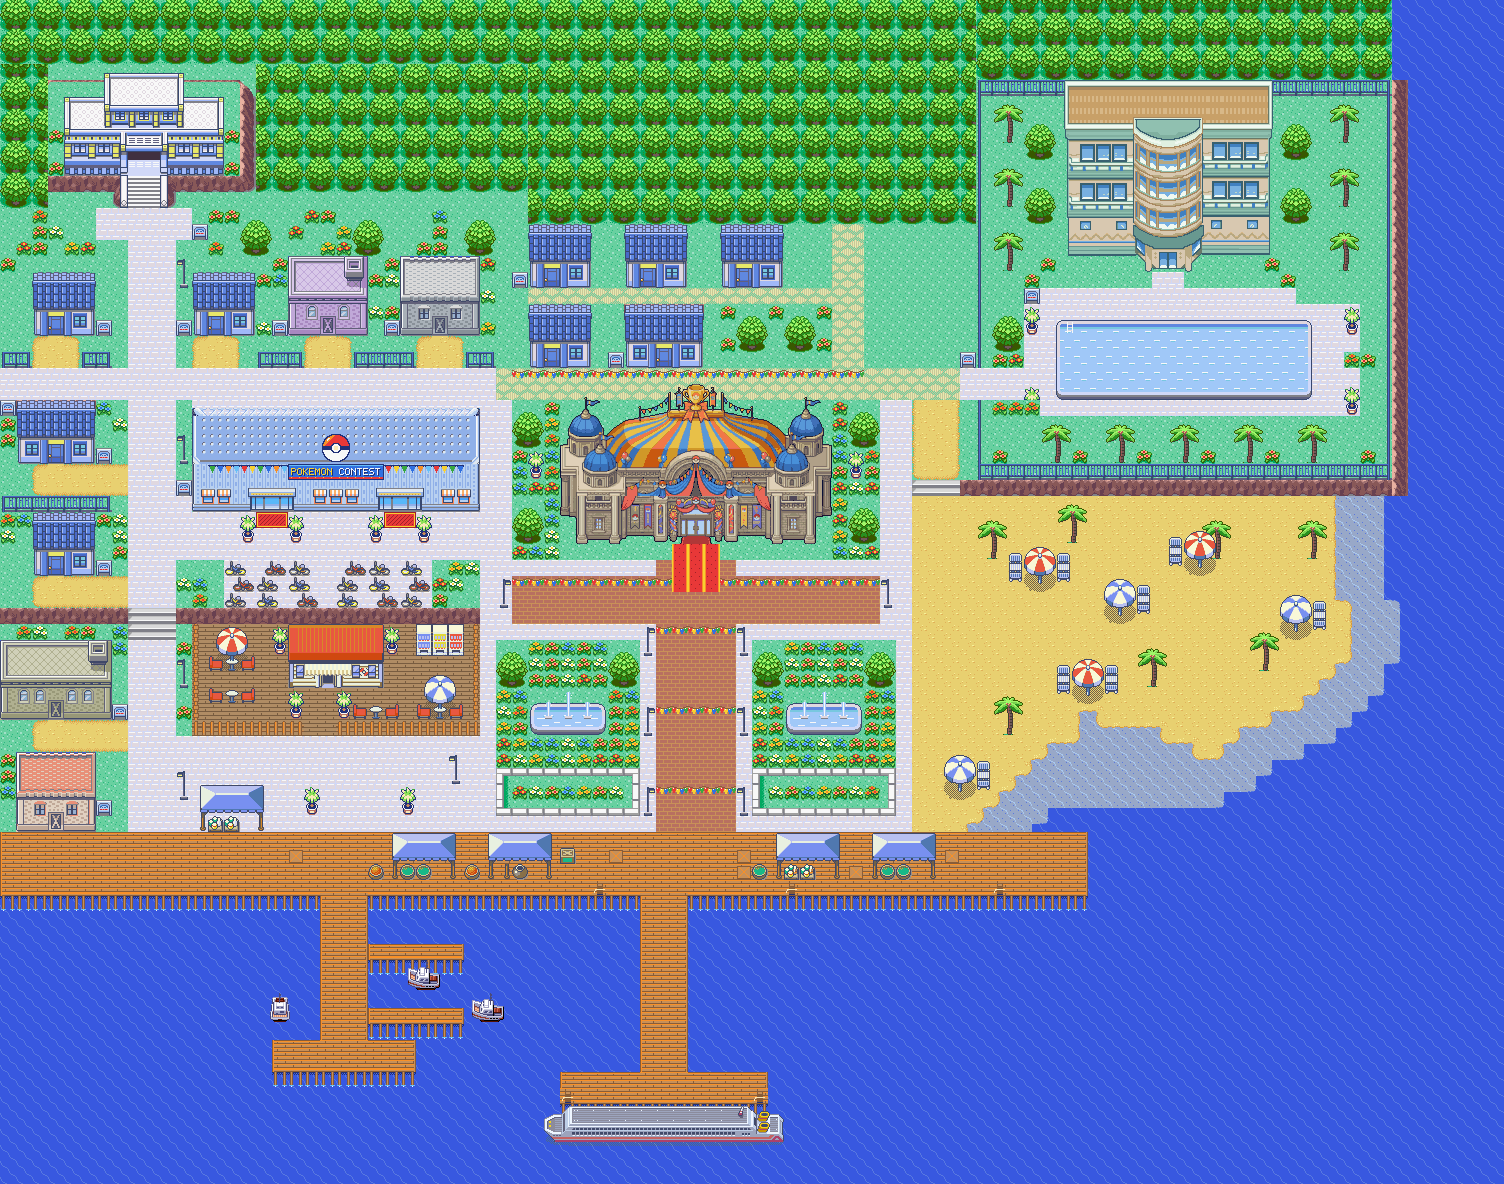
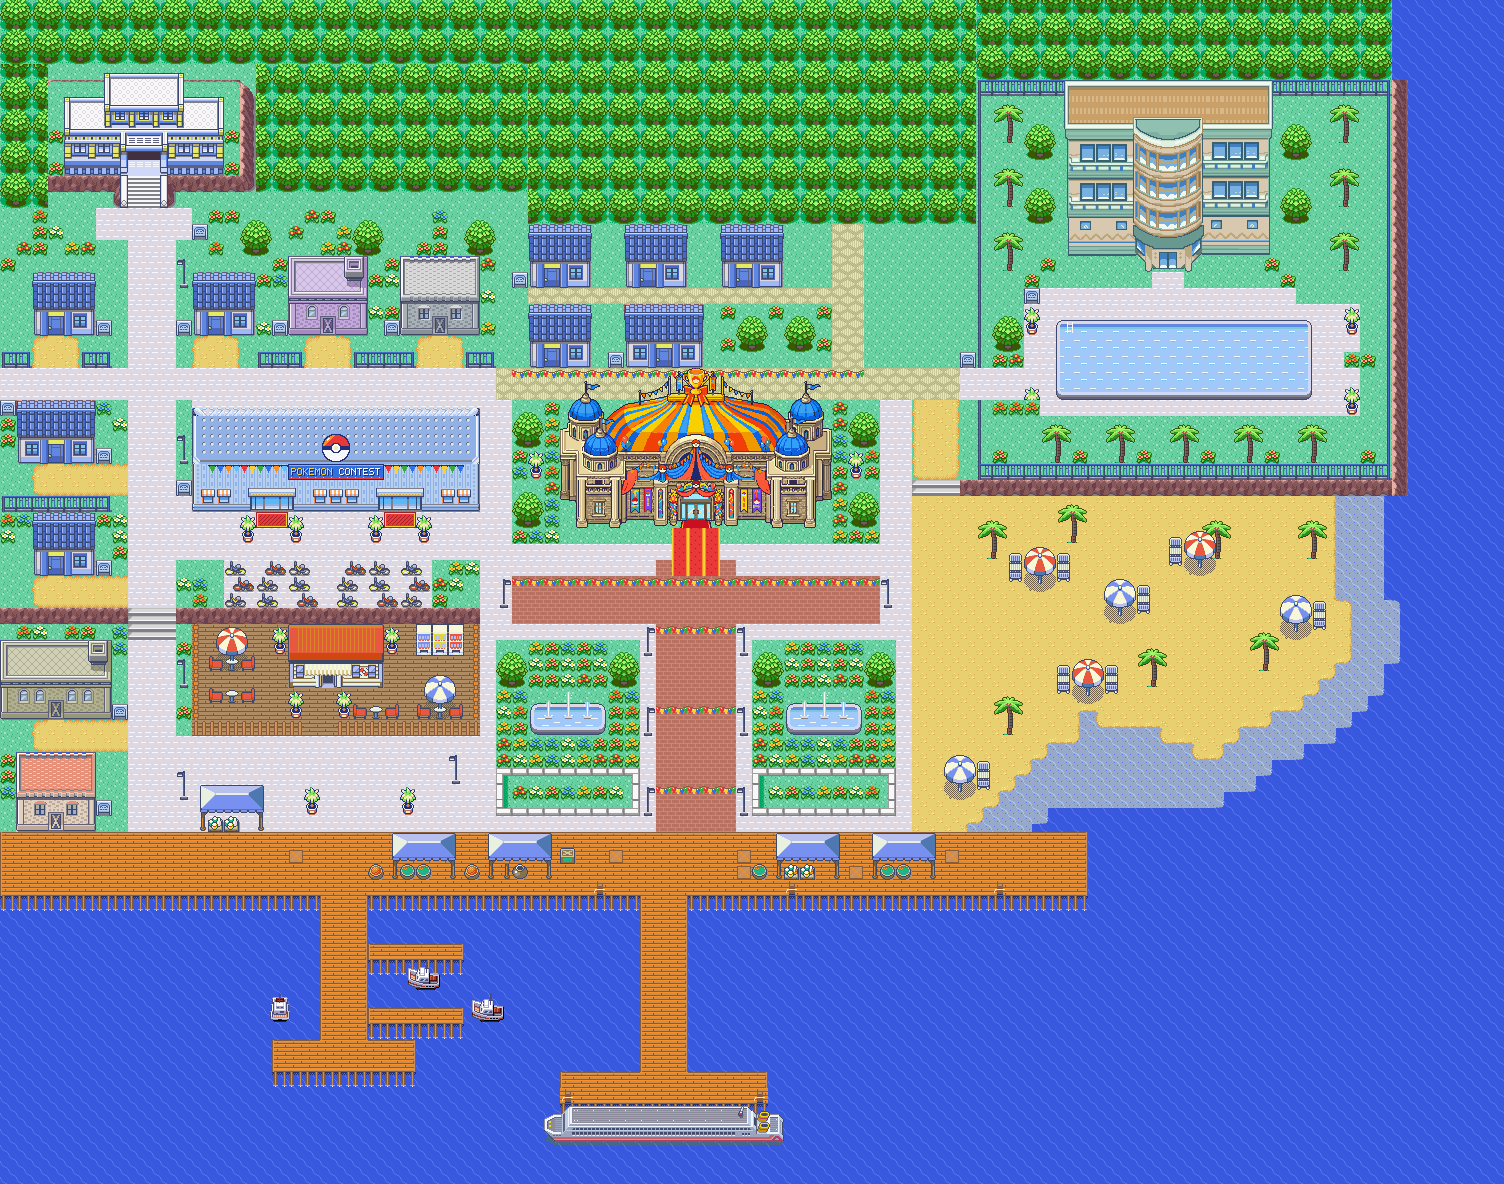
Contest Hall: one row up (carpet reaches the plaza bricks), cleaner vivid colours
Denoise + saturation/contrast before scaling, unsharp after, despeckle, shared dark outline.

Claude-Session: https://claude.ai/code/session_015nAeBdQj1XXGE9TrWVaT6H

Changed region(s): [[0.3438, 0.3125, 0.5938, 0.5]]

diff --git a/dev_scripts/lilycove_redesign/hall_concept.py b/dev_scripts/lilycove_redesign/hall_concept.py
@@ -24,27 +24,55 @@ def _scaled():
     rgba = im.convert('RGBA'); rgba.putalpha(a)
     xs = [x for x in range(0, W, 2) if any(not bg(p[x, y]) for y in range(0, bottom, 9))]
     c = rgba.crop((min(xs), 0, max(xs) + 1, bottom + 1))
-    small = c.resize((TW * 16, TH * 16), Image.BOX); sp = small.load()
+    # clean the JPEG noise and lift the colours before scaling (GBA art is crisp and saturated)
+    from PIL import ImageFilter, ImageEnhance
+    alpha = c.split()[3]
+    rgb = c.convert('RGB').filter(ImageFilter.MedianFilter(5))
+    rgb = ImageEnhance.Color(rgb).enhance(1.35)
+    rgb = ImageEnhance.Contrast(rgb).enhance(1.12)
+    c = rgb.convert('RGBA'); c.putalpha(alpha)
+    small = c.resize((TW * 16, TH * 16), Image.BOX)
+    sa = small.split()[3]
+    small = small.convert('RGB').filter(ImageFilter.UnsharpMask(radius=1, percent=90, threshold=2)).convert('RGBA')
+    small.putalpha(sa); sp = small.load()
     for y in range(small.height):
         for x in range(small.width):
             r, g, b, al = sp[x, y]; sp[x, y] = (r, g, b, 255 if al >= 128 else 0)
     return small
+
+OUTLINE = (40, 40, 64)                      # one dark outline colour for all bands (Emerald style)
+
+def _despeckle(cv):
+    """replace isolated pixels by the colour most of their neighbours have"""
+    h, w = len(cv), len(cv[0]); out = [r[:] for r in cv]
+    for y in range(1, h - 1):
+        for x in range(1, w - 1):
+            v = cv[y][x]
+            if not v: continue
+            nb = [cv[y + b][x + a] for a in (-1, 0, 1) for b in (-1, 0, 1) if (a, b) != (0, 0)]
+            if v in nb: continue
+            best = max(set(nb), key=nb.count)
+            if best and nb.count(best) >= 4: out[y][x] = best
+    return out
 
 def build():
     """returns ({palette key: 16 colours}, [(name, tile x, tile y, index canvas, palette key)])"""
     img = _scaled(); pals = {}; pieces = []
     for bi, (r0, r1) in enumerate(ROWS):
         band = img.crop((0, r0 * 16, TW * 16, r1 * 16))
-        pal, (canvas,) = A.to_palette([band])
-        dark = min(range(1, 16), key=lambda i: sum(pal[i]))
+        pal, (canvas,) = A.to_palette([band], ncolors=14)       # 14 colours + the outline colour
+        pal = list(pal); pal[15] = OUTLINE
+        canvas = _despeckle(canvas)
         h, w = len(canvas), len(canvas[0])
-        out = [row[:] for row in canvas]                 # outline where the building meets the background
+        out = [row[:] for row in canvas]                         # outline where the building meets the background
         for y in range(h):
             for x in range(w):
-                if canvas[y][x] and any(not (0 <= x + dx < w) or not (0 <= y + dy < h) and False or
-                                        (0 <= x + dx < w and 0 <= y + dy < h and not canvas[y + dy][x + dx])
+                if canvas[y][x] and any(0 <= x + dx < w and 0 <= y + dy < h and not canvas[y + dy][x + dx]
                                         for dx, dy in ((1, 0), (-1, 0), (0, 1), (0, -1))):
-                    out[y][x] = dark
+                    out[y][x] = 15
+        # darkest tones become the outline colour too, so all bands share the same line work
+        dark = [i for i in range(1, 15) if sum(pal[i]) < 150]
+        out = [[15 if v in dark else v for v in row] for row in out]
         key = 'hall%d' % bi; pals[key] = pal
         for ci, (c0, c1) in enumerate(COLS):
             pieces.append(('hallc_%d_%d' % (bi, ci), c0, r0, [row[c0 * 16:c1 * 16] for row in out], key))

diff --git a/dev_scripts/lilycove_redesign/layout.py b/dev_scripts/lilycove_redesign/layout.py
@@ -389,18 +389,19 @@ decor('beach_set_blue', 43, 35, walk_rows=1); decor('beach_set_blue', 64, 25, wa
 # over the north street (walk behind). Formal gardens fill the rest of the block.
 fill(14, 13, 41, 23, GRASS)
 paving(14, 13, 16, 23); paving(39, 13, 41, 23)              # side walks: north street <-> plaza
-HALL_X, HALL_Y = 19, 12
+paving(14, 22, 41, 23)                                       # forecourt in front of the hall
+HALL_X, HALL_Y = 19, 11
 import port_art as _port_art2
 for (_n, _c0, _r0, _cv, _k) in _port_art2.HALL_PIECES:
     _h = len(_cv) // 16
-    decor(_n, HALL_X + _c0, HALL_Y + _r0, walk_rows=1 if _r0 == 0 else 0, anchor_up=1 if _r0 + _h == 11 else 0)
+    decor(_n, HALL_X + _c0, HALL_Y + _r0, walk_rows=2 if _r0 == 0 else 0, anchor_up=1 if _r0 + _h == 11 else 0)
 for dx_ in (7, 8, 9):                                        # the glass double door (walk in -> lobby)
     put(HALL_X + dx_, HALL_Y + 10, ('ART', ('nadoor', 0, 0, None, 'carpet'), 0, 3))
 for x in (26, 27, 28):
-    for y in (23, 24): put(x, y, T(F['carpet']))             # red carpet down the plaza axis
+    for y in (22, 23): put(x, y, T(F['carpet']))             # red carpet from the door to the plaza bricks
 # gardens on both sides of the hall
 for gx in (16, 36):
-    flowerfield(gx, 13, gx + 3, 23, seed=41 + gx, skip={(gx + dx, gy) for dx in range(3) for gy in range(13, 23) if (gx + dx, gy) in ()})
-for (tx_, ty_) in ((16, 13), (37, 13), (16, 19), (37, 19)): tree1(tx_, ty_)
+    flowerfield(gx, 13, gx + 3, 22, seed=41 + gx, skip={(gx + dx, gy) for dx in range(3) for gy in range(13, 23) if (gx + dx, gy) in ()})
+for (tx_, ty_) in ((16, 13), (37, 13), (16, 18), (37, 18)): tree1(tx_, ty_)
 for (px_, py_) in ((17, 16), (37, 16)): art('potted_palm', px_, py_, bottom='grass', walk_rows=1)
 sign(44, 10)                                                 # beach / hotel sign at the top of the sand road

diff --git a/docs/lilycove/README.md b/docs/lilycove/README.md
@@ -123,12 +123,13 @@ Rota 121 e ao Safari. Tiles iguais ou espelhados são reaproveitados (espaço li
 * Feito a partir do **conceito do usuário** (`hall_concept.jpg`): cúpula de tenda listrada com o
   troféu e as bandeirolas, quatro torres com domos azuis, palácio de pedra com colunas, drapeados
   vermelhos e azuis, estandartes do concurso e a entrada de vidro com o tapete vermelho.
-* `hall_concept.py` recorta o prédio (remove o magenta), reduz para **17×11 tiles** com média de
-  área e divide em **9 sprites** (3 faixas × 3 colunas); cada faixa tem sua paleta de objeto de
-  15 cores (`lilycove_hall0/1/2.pal`), com contorno escuro na silhueta.
+* `hall_concept.py` recorta o prédio (remove o magenta), limpa o ruído do JPG, aumenta saturação e
+  contraste, reduz para **17×11 tiles**, aplica nitidez e remove pixels soltos; divide em **9 sprites** (3 faixas × 3 colunas); cada faixa tem sua paleta de objeto de
+  14 cores + um contorno escuro comum a todas (`lilycove_hall0/1/2.pal`).
 * No eixo da praça (x 19–35), com jardins, árvores e palmeiras em vaso dos lados e calçadas
   ligando a rua norte à praça; o topo (troféu) passa sobre a rua norte (anda-se por trás).
-* Porta de vidro: três tiles de porta (sobre o tapete) levam ao saguão; o tapete continua na praça.
+* Porta de vidro: três tiles de porta (sobre o tapete) levam ao saguão; o tapete desce pela calçada
+  até os tijolos da praça. O prédio ocupa as linhas 11–21 (o topo passa sobre a rua norte).
 * As tags e entradas de paleta de objeto agora são geradas por `decor_sprites.py`.
 * Limites: 64 objetos no mapa; no pior ponto 14 visíveis + o jogador (máx. 16).
 
